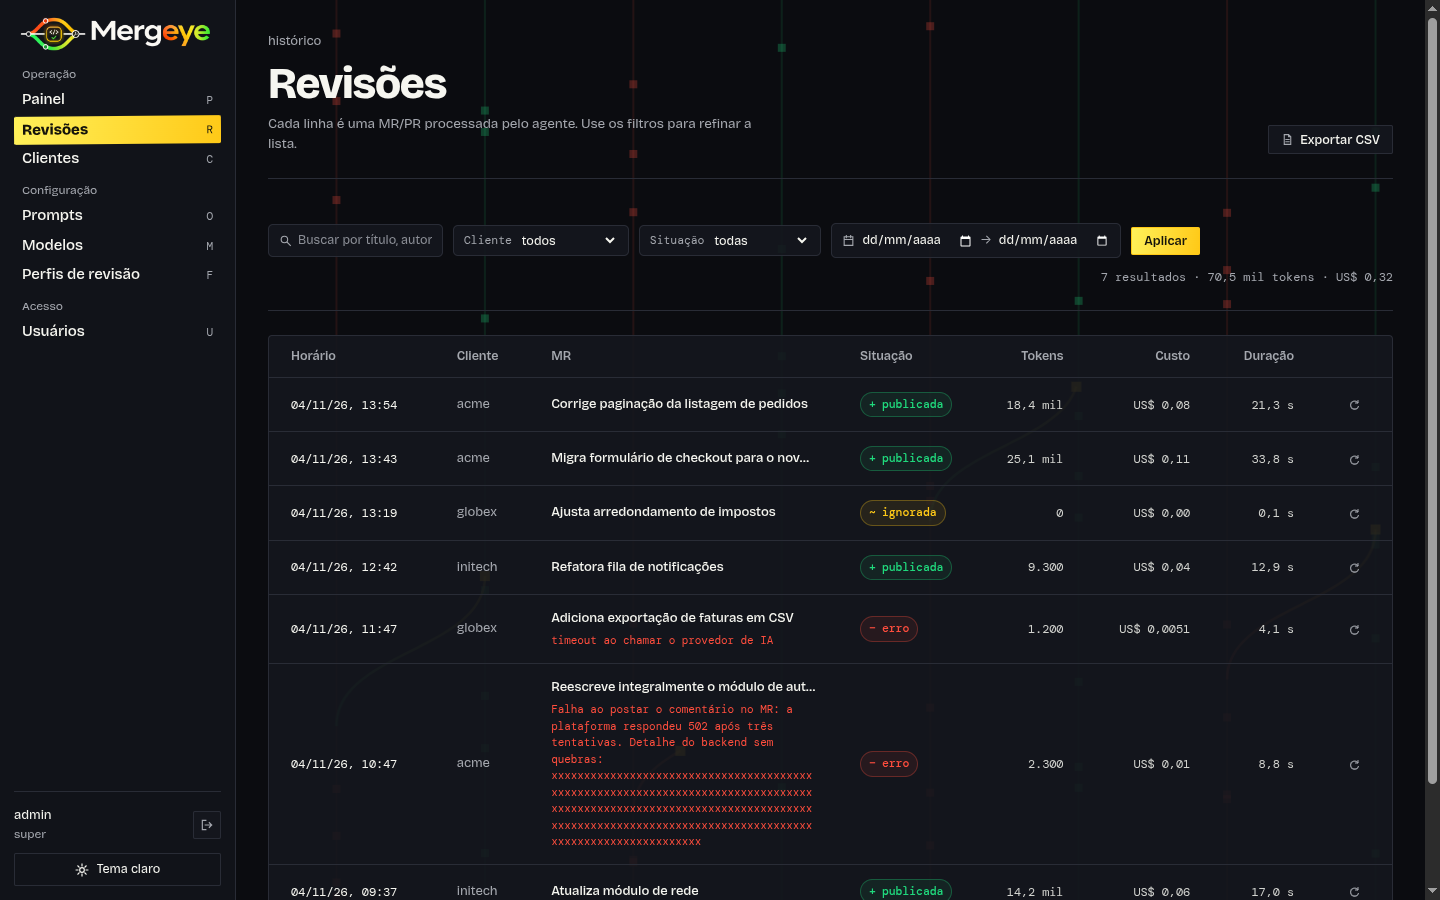
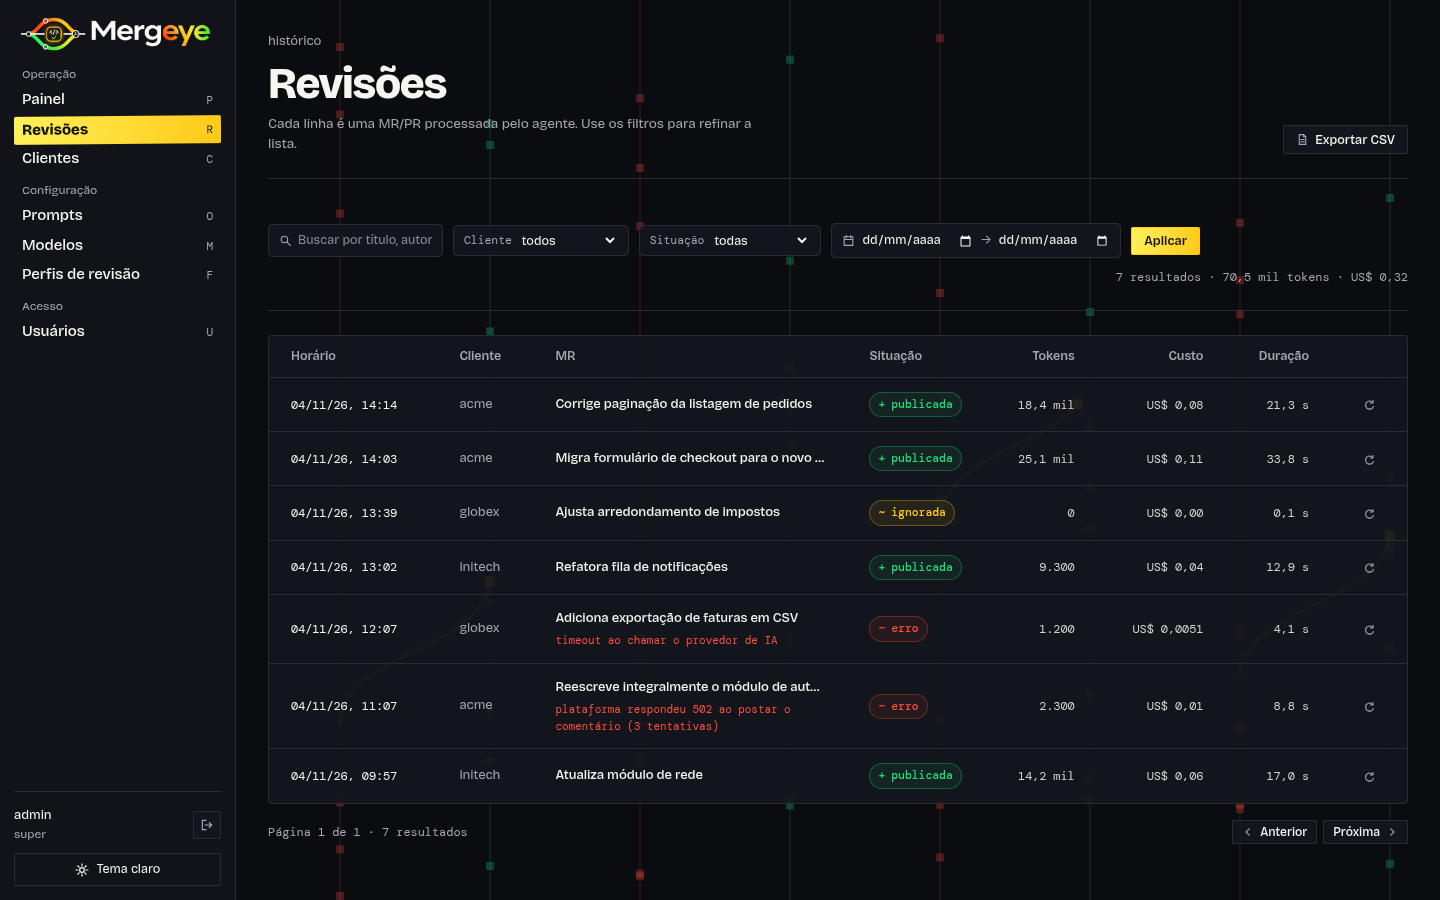
fix: achados da revisão final da identidade Mergeye

diff --git a/web/src/components/LiveFeed.vue b/web/src/components/LiveFeed.vue
@@ -13,7 +13,7 @@
         <a v-if="e.mr_url" class="titulo" :href="e.mr_url" target="_blank" rel="noopener">{{ title(e) }}</a>
         <span v-else class="titulo">{{ title(e) }}</span>
         <div class="meta">{{ meta(e) }}</div>
-        <div v-if="e.error_message" class="erro">{{ e.error_message }}</div>
+        <div v-if="e.error_message" class="erro" :class="{ falha: e.status === 'error' }">{{ e.error_message }}</div>
       </div>
       <span class="quando">{{ formatRelative(e.reviewed_at) }}</span>
     </div>
@@ -26,6 +26,7 @@ import { createEventSource, listEvents, type ReviewEvent } from '@/api/events'
 import { useAuthStore } from '@/stores/auth'
 import AppIcon from '@/components/AppIcon.vue'
 import { statusMark } from '@/brand/status'
+import { createEventAdmitter } from '@/brand/feed'
 import { formatCount, formatRelative, formatUsd } from '@/brand/format'
 
 const props = defineProps<{ client?: string }>()
@@ -35,6 +36,7 @@ const feed = ref<ReviewEvent[]>([])
 // Só eventos que chegam por SSE ganham a passada de marca-texto; a carga inicial não.
 const novos = ref(new Set<number>())
 
+const admit = createEventAdmitter()
 let es: EventSource | null = null
 // Desmontar durante o await de loadRecent não pode deixar uma conexão SSE aberta.
 let disposed = false
@@ -65,7 +67,7 @@ function startSSE() {
     try {
       const e: ReviewEvent = JSON.parse(ev.data)
       if (props.client && e.client_name !== props.client) return
-      if (feed.value.some((x) => x.id === e.id)) return
+      if (!admit(feed.value, e)) return
       novos.value.add(e.id)
       feed.value.unshift(e)
       if (feed.value.length > 50) feed.value.pop()
@@ -171,8 +173,12 @@ a.titulo:hover {
 .erro {
   margin-top: 3px;
   font: 12px var(--font-mono);
-  color: var(--danger);
+  color: var(--muted);
   overflow-wrap: anywhere;
+}
+
+.erro.falha {
+  color: var(--danger);
 }
 
 .quando {

diff --git a/web/src/components/Modal.vue b/web/src/components/Modal.vue
@@ -1,7 +1,7 @@
 <template>
   <Teleport to="body">
     <div class="modal-overlay" @click.self="$emit('close')">
-      <div class="modal" role="dialog" aria-modal="true" :aria-label="title" :style="{ maxWidth: maxWidth }">
+      <div ref="modalEl" class="modal" tabindex="-1" role="dialog" aria-modal="true" :aria-label="title" :style="{ maxWidth: maxWidth }">
         <div class="modal-header">
           <h2 class="modal-title">{{ title }}</h2>
           <button class="icon-btn" type="button" title="Fechar" aria-label="Fechar" @click="$emit('close')">
@@ -20,6 +20,7 @@
 </template>
 
 <script setup lang="ts">
+import { onMounted, onUnmounted, ref } from 'vue'
 import AppIcon from '@/components/AppIcon.vue'
 
 defineProps<{
@@ -28,6 +29,17 @@ defineProps<{
 }>()
 
 defineEmits<{ close: [] }>()
+
+const modalEl = ref<HTMLElement | null>(null)
+let previous: Element | null = null
+
+onMounted(() => {
+  previous = document.activeElement
+  modalEl.value?.focus()
+})
+onUnmounted(() => {
+  if (previous instanceof HTMLElement) previous.focus()
+})
 </script>
 
 <style scoped>
@@ -42,6 +54,10 @@ defineEmits<{ close: [] }>()
   justify-content: center;
   z-index: 200;
   padding: 24px 16px;
+}
+
+.modal:focus {
+  outline: none;
 }
 
 .modal {

diff --git a/web/tests/brand.test.ts b/web/tests/brand.test.ts
@@ -2,6 +2,7 @@ import { test } from 'node:test'
 import assert from 'node:assert/strict'
 import { statusMark } from '../src/brand/status.ts'
 import { formatUsd, formatCount, formatRelative, formatRole } from '../src/brand/format.ts'
+import { createEventAdmitter } from '../src/brand/feed.ts'
 import { NAV_SHORTCUTS, isEditableTarget } from '../src/brand/shortcuts.ts'
 
 test('statusMark: sinal, rótulo e tom por situação', () => {
@@ -52,4 +53,21 @@ test('formatRole: só `padrao` ganha acento; os demais ficam como vêm', () => {
   assert.equal(formatRole('padrao'), 'padrão')
   assert.equal(formatRole('super'), 'super')
   assert.equal(formatRole('gestor'), 'gestor')
+})
+
+test('feed: eventos SSE com id 0 ganham ids locais distintos; id real repetido é duplicado', () => {
+  const admit = createEventAdmitter()
+  const feed: { id: number }[] = []
+  const a = { id: 0 }
+  const b = { id: 0 }
+  assert.equal(admit(feed, a), true)
+  feed.unshift(a)
+  assert.equal(admit(feed, b), true)
+  feed.unshift(b)
+  assert.notEqual(a.id, b.id)
+  assert.ok(a.id < 0 && b.id < 0)
+  const real = { id: 7 }
+  assert.equal(admit(feed, real), true)
+  feed.unshift(real)
+  assert.equal(admit(feed, { id: 7 }), false)
 })

diff --git a/web/src/assets/tokens.css b/web/src/assets/tokens.css
@@ -348,8 +348,15 @@ body {
   transition: opacity 0.15s;
 }
 
-.table tr:hover .row-actions {
+.table tr:hover .row-actions,
+.table tr:focus-within .row-actions {
   opacity: 1;
+}
+
+@media (hover: none) {
+  .table .row-actions {
+    opacity: 1;
+  }
 }
 
 /* ── Page head ──────────────────────────────── */
@@ -513,6 +520,10 @@ body {
   color: inherit;
   font: inherit;
   min-width: 100px;
+}
+
+.filterbar .field:focus-within {
+  border-color: var(--accent);
 }
 
 .filterbar .field label {

diff --git a/internal/transport/http/frontend/dist/index.html b/internal/transport/http/frontend/dist/index.html
@@ -18,8 +18,8 @@
         if (localStorage.getItem('theme') === 'light') document.documentElement.setAttribute('data-theme', 'light')
       } catch (e) {}
     </script>
-    <script type="module" crossorigin src="/assets/index-7cJTnpQK.js"></script>
-    <link rel="stylesheet" crossorigin href="/assets/index-Y3SuRfPi.css">
+    <script type="module" crossorigin src="/assets/index-CT9tDdEh.js"></script>
+    <link rel="stylesheet" crossorigin href="/assets/index-CPTXdn7c.css">
   </head>
   <body>
     <div id="app"></div>

diff --git a/web/src/components/AppLayout.vue b/web/src/components/AppLayout.vue
@@ -77,8 +77,6 @@
         <router-view />
       </main>
     </div>
-
-    <ToastContainer />
   </div>
 </template>
 
@@ -92,7 +90,6 @@ import { formatRole } from '@/brand/format'
 import AppIcon from '@/components/AppIcon.vue'
 import BackgroundMotion from '@/components/BackgroundMotion.vue'
 import BrandLogo from '@/components/BrandLogo.vue'
-import ToastContainer from '@/components/ToastContainer.vue'
 
 const auth = useAuthStore()
 const router = useRouter()

diff --git a/web/src/brand/feed.ts b/web/src/brand/feed.ts
@@ -1,0 +1,11 @@
+// O backend publica no SSE com id 0 (o id do banco não é preenchido); sem id local, o dedupe descartaria todo evento após o primeiro.
+export function createEventAdmitter() {
+  let local = 0
+  return (feed: { id: number }[], e: { id: number }) => {
+    if (!e.id) {
+      e.id = --local
+      return true
+    }
+    return !feed.some((x) => x.id === e.id)
+  }
+}

diff --git a/web/src/views/EventsView.vue b/web/src/views/EventsView.vue
@@ -164,7 +164,7 @@ function exportCSV() {
   const url = URL.createObjectURL(blob)
   const link = document.createElement('a')
   link.href = url
-  link.download = `code-reviewer-events-${new Date().toISOString().slice(0, 10)}.csv`
+  link.download = `mergeye-events-${new Date().toISOString().slice(0, 10)}.csv`
   link.click()
   URL.revokeObjectURL(url)
 }

diff --git a/web/src/views/AiConfigView.vue b/web/src/views/AiConfigView.vue
@@ -369,10 +369,6 @@ function providerLabel(provider: string) {
   width: 110px;
 }
 
-.row-actions:focus-within {
-  opacity: 1;
-}
-
 .cred {
   display: inline-flex;
   align-items: center;

diff --git a/web/src/views/ReviewProfilesView.vue b/web/src/views/ReviewProfilesView.vue
@@ -322,10 +322,6 @@ function fmtDate(s: string) {
   width: 110px;
 }
 
-.row-actions:focus-within {
-  opacity: 1;
-}
-
 .profile-icon {
   flex-shrink: 0;
   width: 28px;

diff --git a/web/src/views/PromptsView.vue b/web/src/views/PromptsView.vue
@@ -300,10 +300,6 @@ function fmtDate(s: string) {
   width: 110px;
 }
 
-.row-actions:focus-within {
-  opacity: 1;
-}
-
 .prompt-icon {
   flex-shrink: 0;
   width: 28px;

diff --git a/web/src/components/CLAUDE.md b/web/src/components/CLAUDE.md
@@ -129,5 +129,5 @@ Modal de atribuição de uma config a um escopo (global/client/projeto), espelha
 - **`AppIcon.vue`** — único componente com `<svg`. Props `name` e `size`; ícones de traço reto, sem arredondar. Para um ícone novo, adicione-o aqui.
 - **`BrandLogo.vue`** — logo PNG de `assets/brand/`, versão escura ou clara pelo tema. Prop `variant`: `horizontal` | `simbolo`.
 - **`BackgroundMotion.vue`** — fundo animado em canvas (raias vermelha e verde, branch sendo puxada). Prop `intensity`. Lê as cores dos tokens a cada quadro, então acompanha o tema; com `prefers-reduced-motion` desenha um quadro estático.
-- **`Modal.vue`** — casca de modal em `Teleport`. Props `title` e `maxWidth`; emite `close`; slot padrão e slot `footer`. Os formulários (`ClientForm`, `PromptForm`, ...) são montados dentro dele.
+- **`Modal.vue`** — casca de modal em `Teleport`. Props `title` e `maxWidth`; emite `close`; slot padrão e slot `footer`. Ao montar, foca o `.modal` (`tabindex="-1"`) e, ao desmontar, devolve o foco ao elemento anterior; Esc e trap de Tab não existem. Os formulários (`ClientForm`, `PromptForm`, ...) são montados dentro dele.
 - **`ConfirmModal.vue`** — confirmação de exclusão sobre `Modal`. Props `name`, `warning?`, `loading?`; emite `close` e `confirm`. Usado por Prompts, Modelos e Perfis de revisão.
